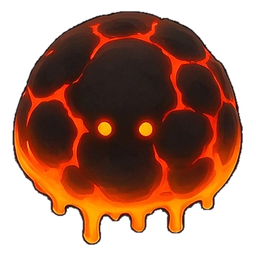
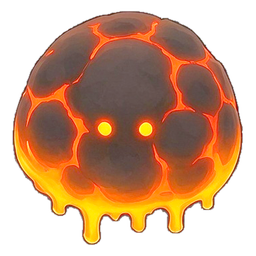
提亮火山前两关怪物

diff --git a/game.js b/game.js
@@ -1135,7 +1135,7 @@
     : null;
   const loadCharacterTexture = (file, fallback) => (
     imageTextureLoader
-      ? imageTextureLoader.load(`assets/${file}?v=20261117-original-monsters3`)
+      ? imageTextureLoader.load(`assets/${file}?v=20261117-volcano-light2`)
       : fallback
   );
   const TEX = {

diff --git a/index.html b/index.html
@@ -812,7 +812,7 @@
 </div>
 
 <script src="vendor/three.min.js?v=20261117"></script>
-<script src="game.js?v=20261117-wisp-large"></script>
+<script src="game.js?v=20261117-volcano-light2"></script>
 <script src="start.js?v=20261117"></script>
 </body>
 </html>
